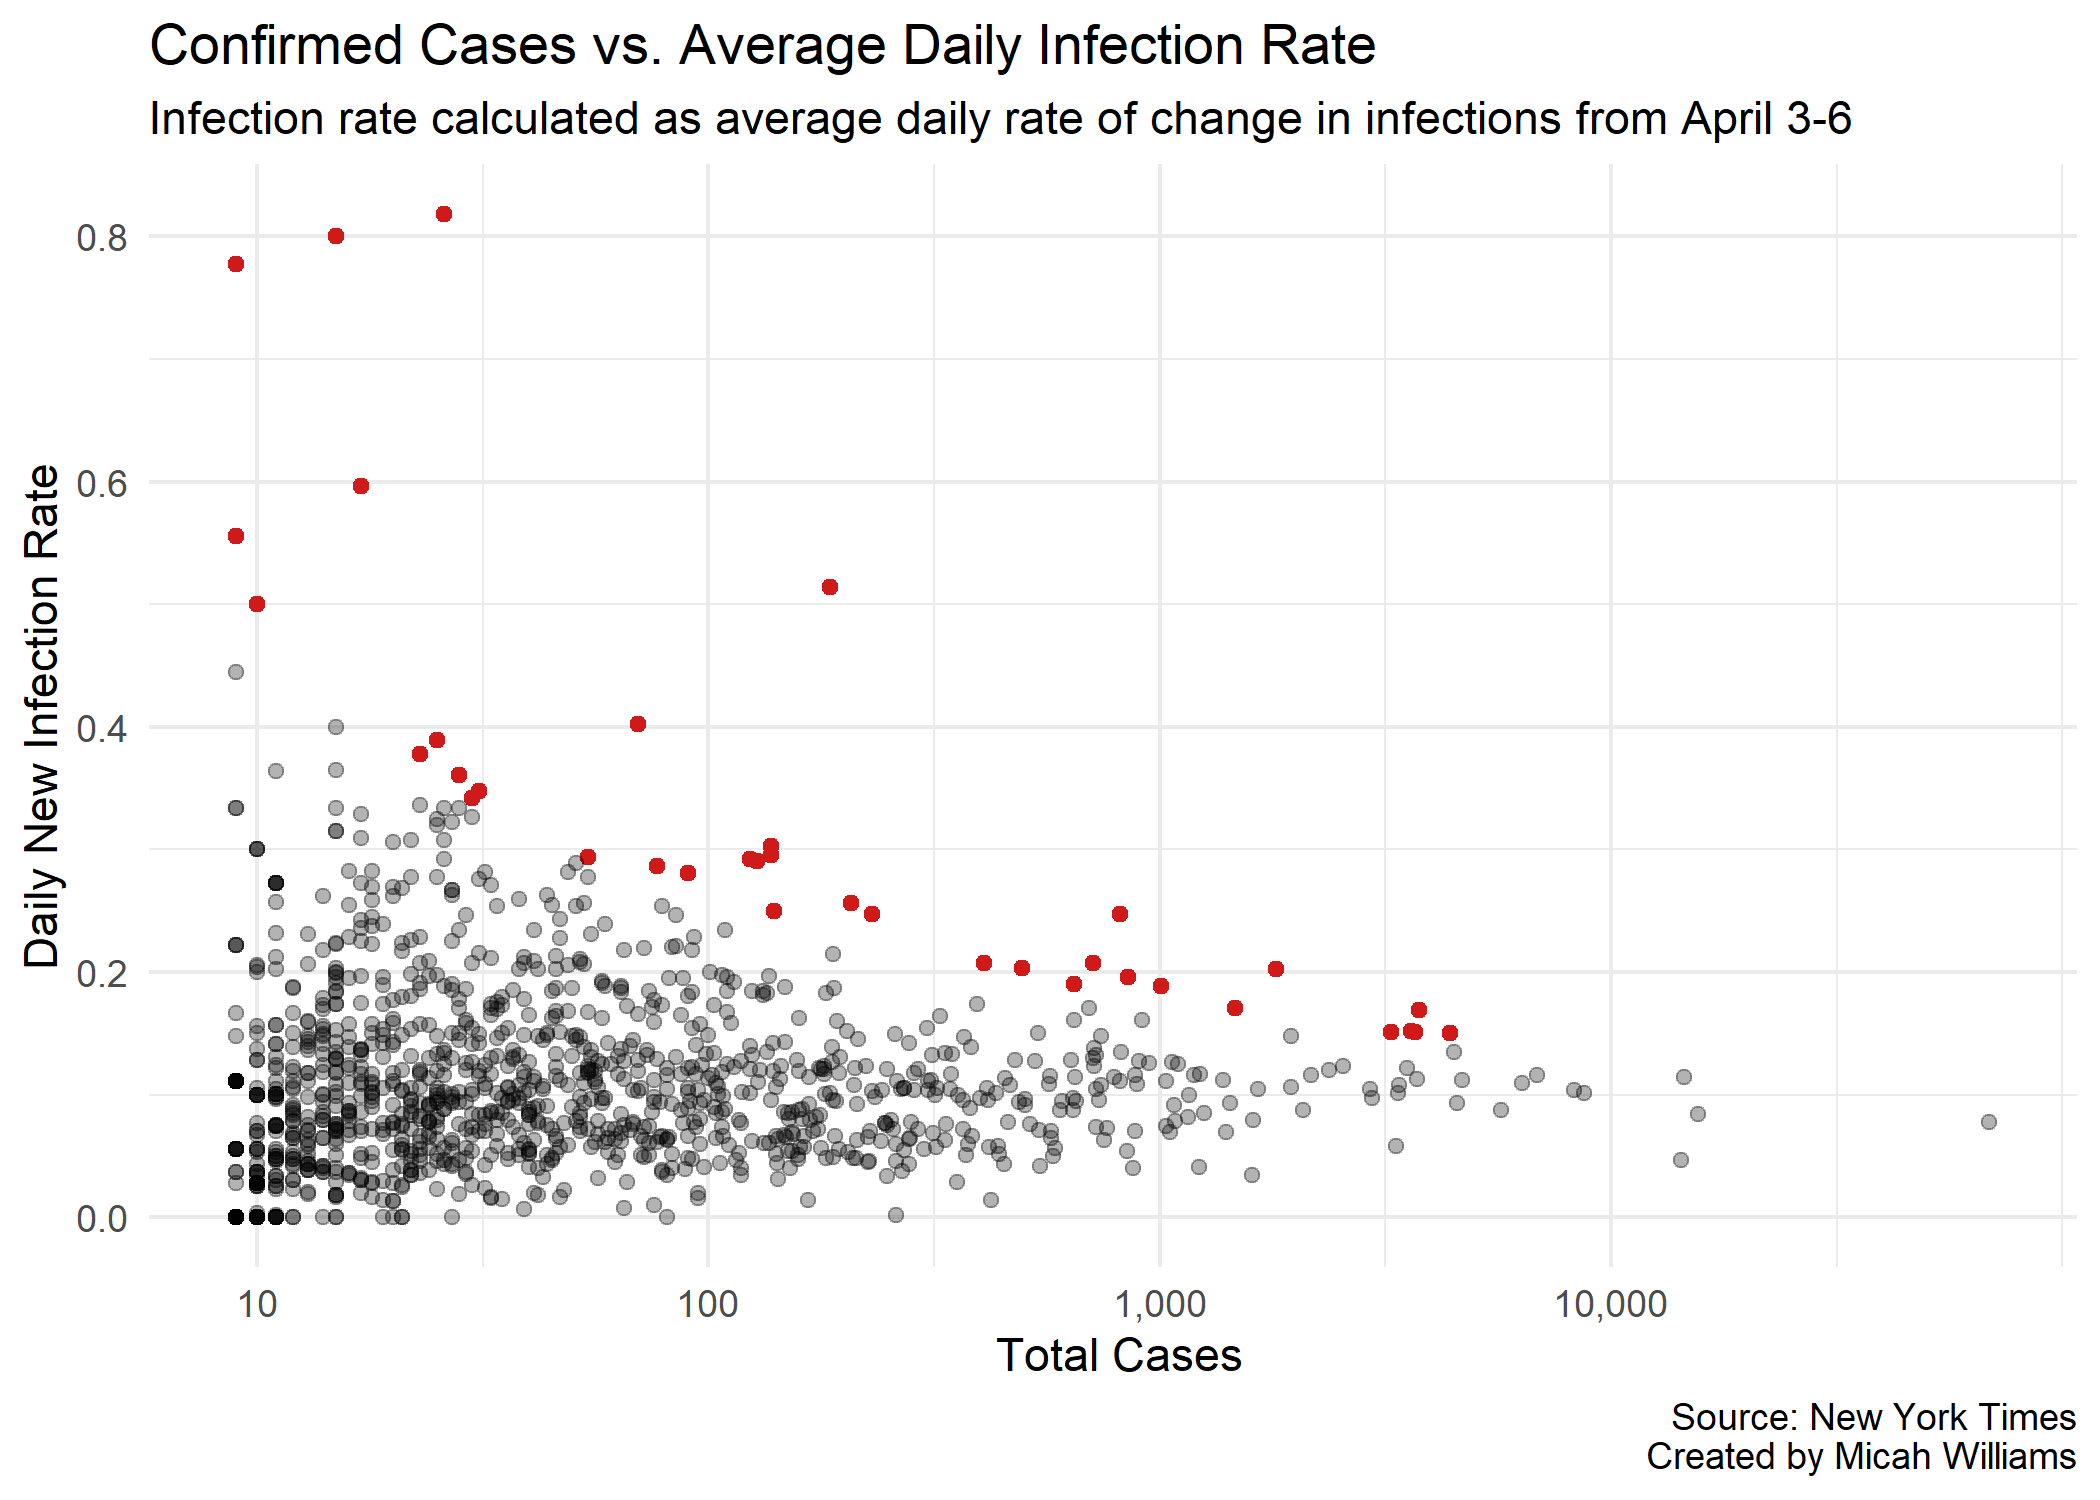
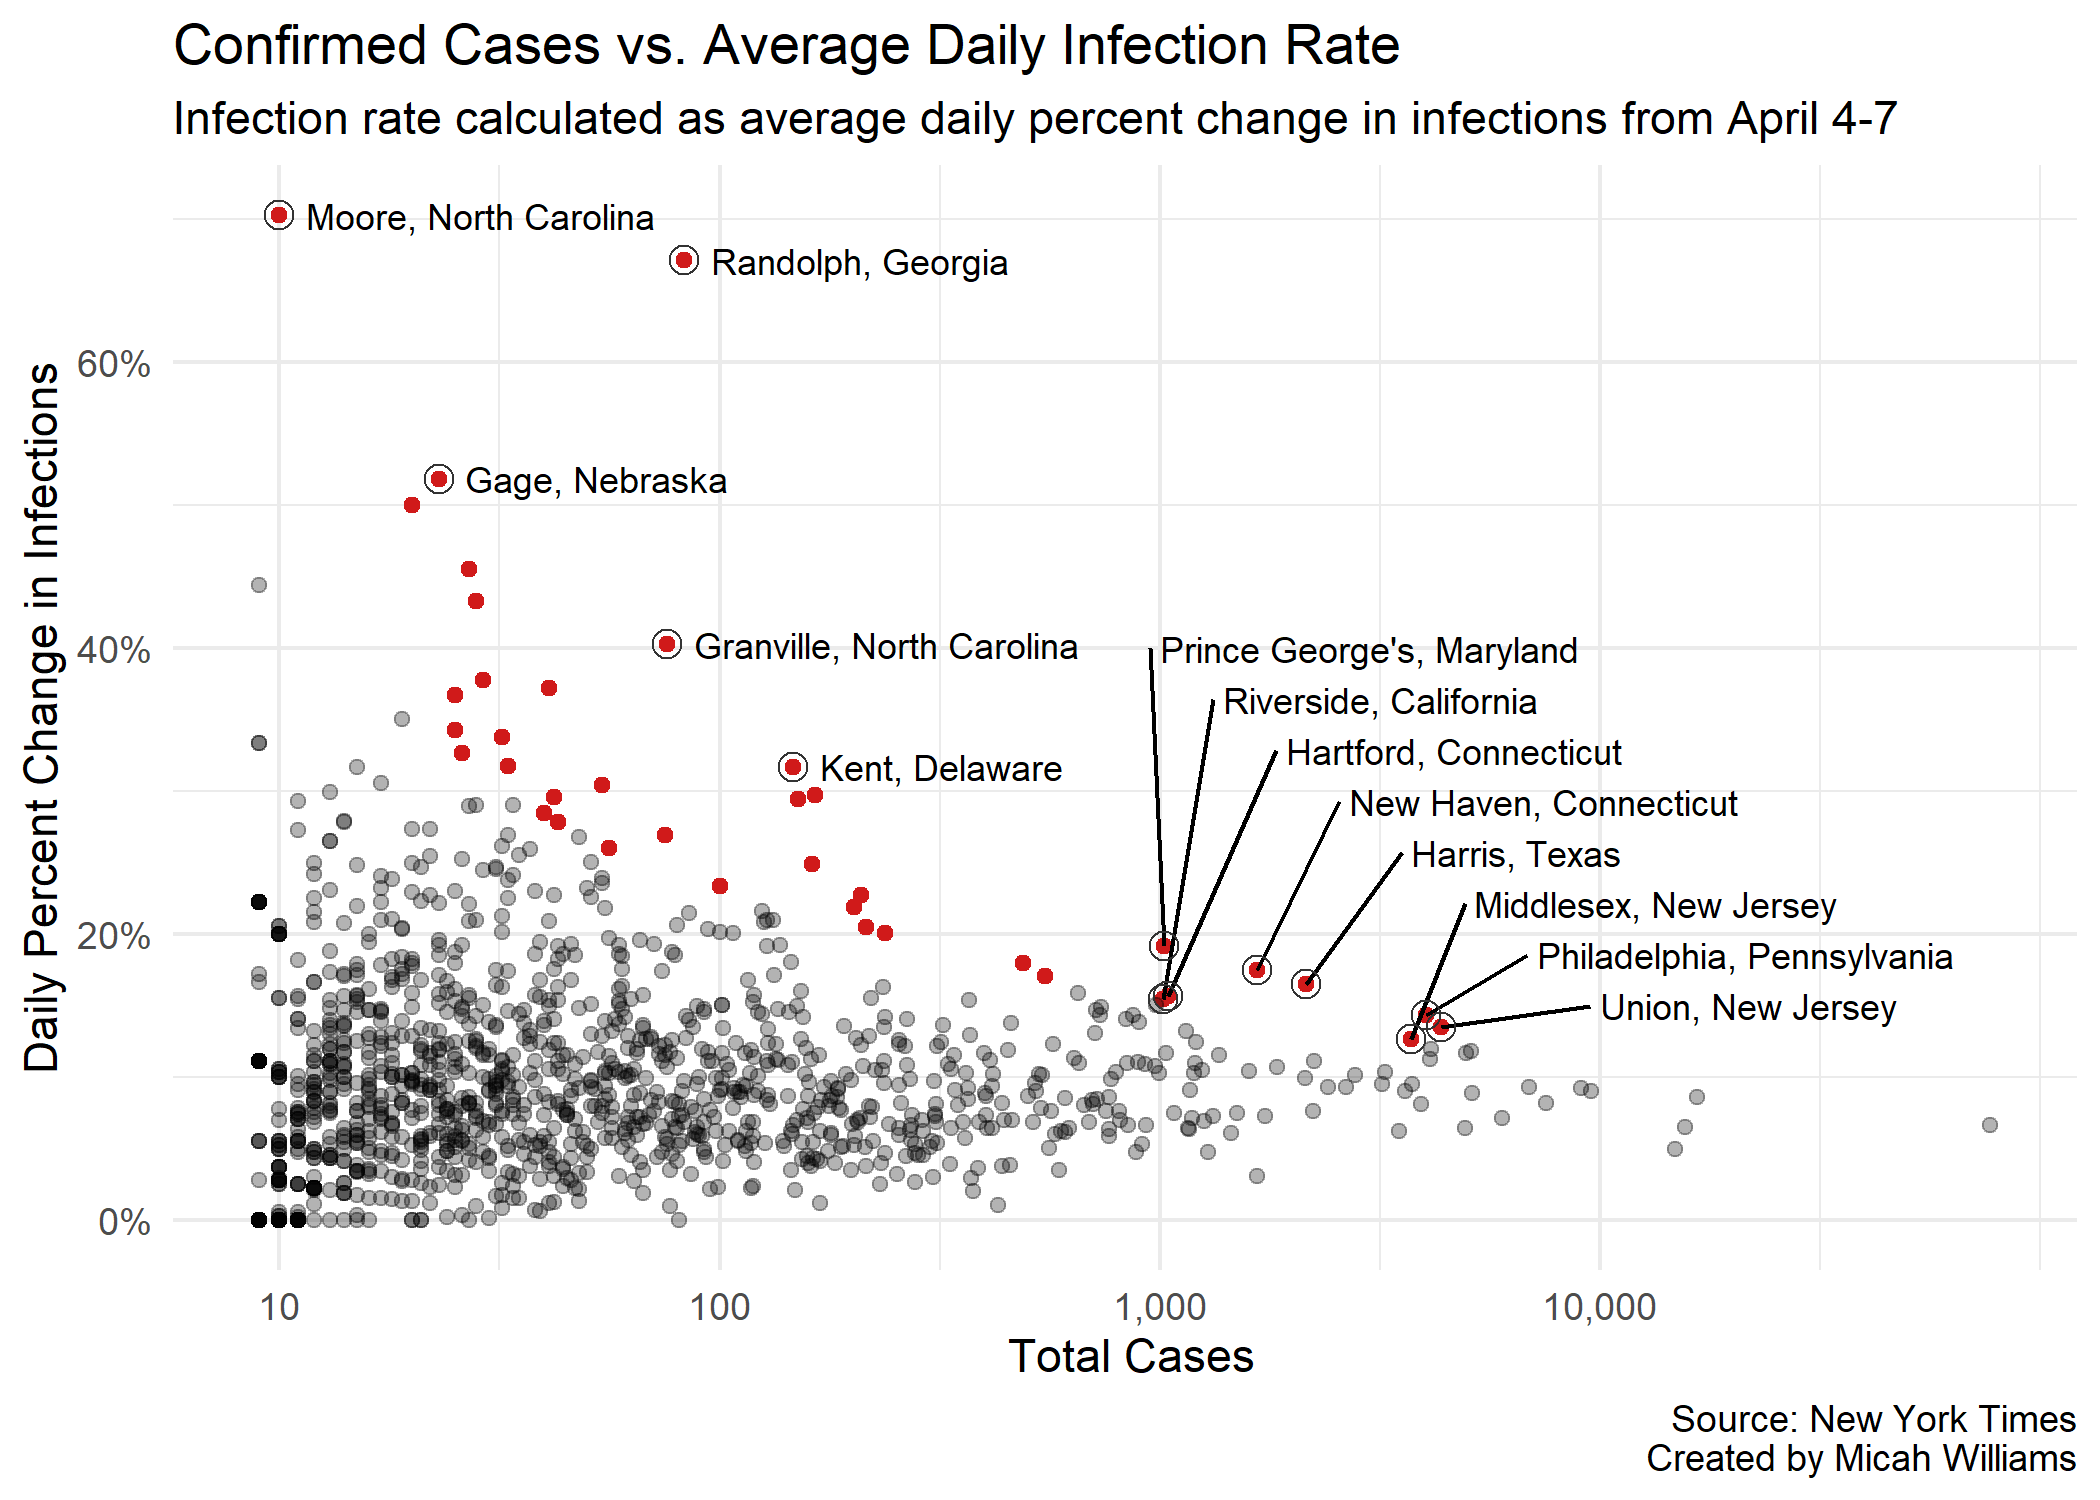
improved daily change plot

diff --git a/index.html b/index.html
@@ -65,7 +65,7 @@
 					<a href='images/top_ten.gif' class="download-link" download> Download this image</a></p>
 
 					<img src='images/PA_0.5fps.gif' style="max-width: 100%;"><br>
-					<p>This choropleth shows the spread of coronavirus across the state of Pennsylvania. Each frame represents one day, starting from the day of the first infection in the state, March 6, until the most recent data available at the time of rendering, April 6. The state has not been hit particularly hard by the COVID-19 pandemic, but this animation shows the speed with which the virus spreads, and why it is so hard to contain without a cure or vaccine: within only a few weeks of the first case, many thousands of infections were present spread across nearly all of Pennsylvania's counties.
+					<p>This choropleth shows the spread of coronavirus across the state of Pennsylvania. Each frame represents one day, starting from the day of the first infection in the state, March 6, until the most recent data available at the time of rendering, April 6. This animation shows the speed with which the virus spreads, and why it is so hard to contain without a cure or vaccine: within only a few weeks of the first case, many thousands of infections were present spread across nearly all of Pennsylvania's counties.
 					</p><p>
 					Note the color scale: since the scale is logarithmic, the dark red represents over 1,000 times as many infections as the light purple.
 					<a href='images/PA_0.5fps.gif' class="download-link" download>Download this image</a></p><br>
@@ -73,9 +73,11 @@
 					<img src='images/avg_change.png' style="max-width: 100%;"><br>
 					<p>This plot shows the relationship between number of confirmed cases per county and the average rate of new infections per day, calculated as the average rate of new infections from April 3-6. Counties colored red are significant outliers: their rates of new infection are high compared to counties with similar numbers of confirmed cases. The 37 highlighted points represent the top 3% of all US counties when compared for their number of cases and average daily rate of new infections.
 					</p><p>
-					In essence, this plot shows counties where coronavirus appears to be spreading faster than it should be when compared to counties with similar numbers of infections. While a likely reason for this effect is that COVID-19 is spreading faster than in peer counties, it could also be the result of testing or reporting. 
+					In essence, this plot shows counties where coronavirus appears* to be spreading faster than it should be when compared to counties with similar numbers of infections.
+					</p><p style='font-size: smaller;'>
+					*while a likely reason for this effect is that COVID-19 is spreading faster than in peer counties, it could also be the result of increases in testing or lag in reporting. 
 					</p><p>
-					The 37 counties in the top 3% belong to 17 different states, however the majority are in just 8 states: 
+					<!-- The 37 counties in the top 3% belong to 17 different states, however the majority are in just 8 states: 
 					<ul>
 						<li>Georgia (5)</li>
 						<li>Louisiana (5)</li>
@@ -85,7 +87,7 @@
 						<li>Indiana (2)</li>
 						<li>North Carolina (2)</li>
 						<li>Virginia (2)</li>
-					</ul>
+					</ul> -->
 					</p>
 					<a href='images/avg_change.png' class="download-link" download>Download this image</a>
 					<br><br>
